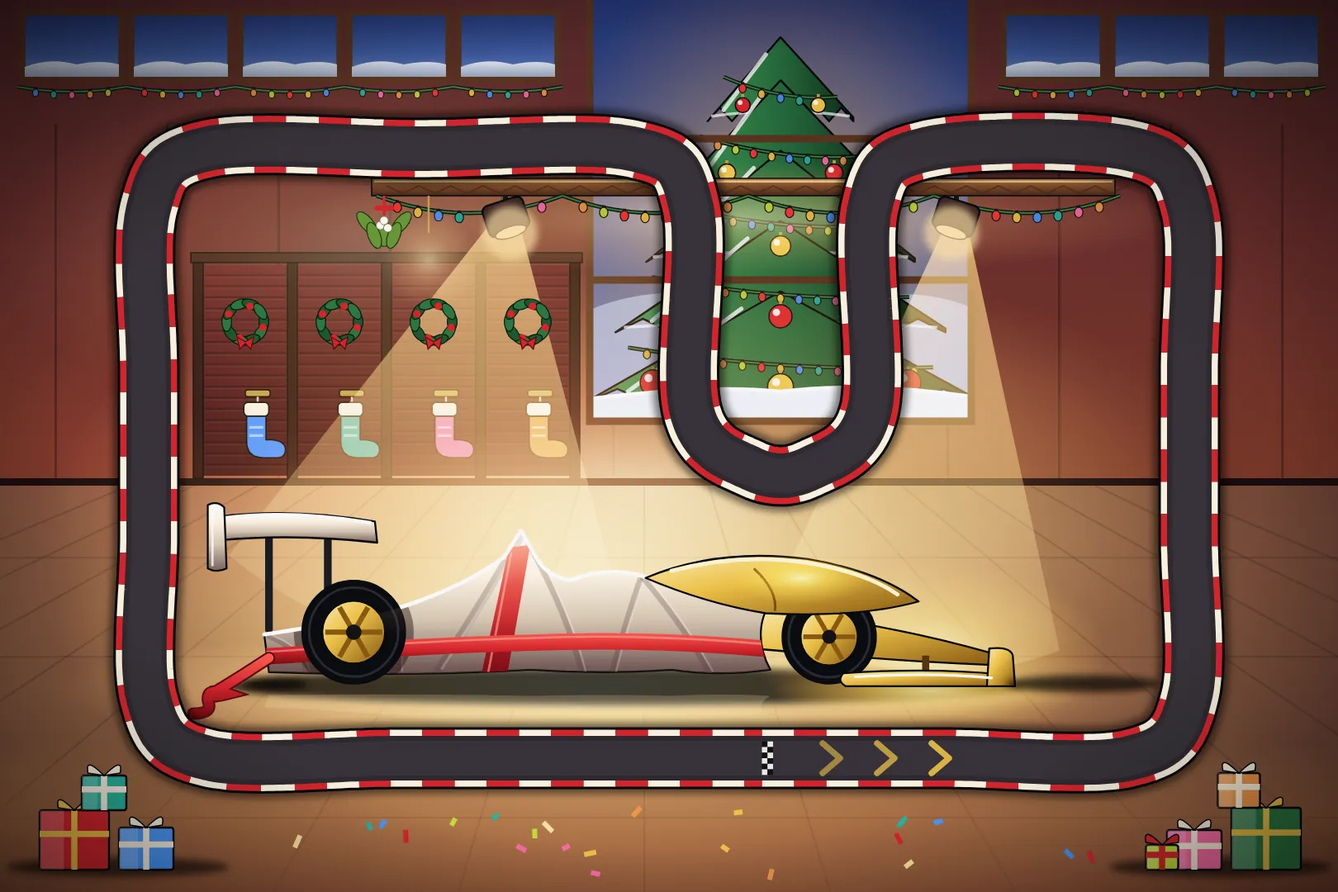
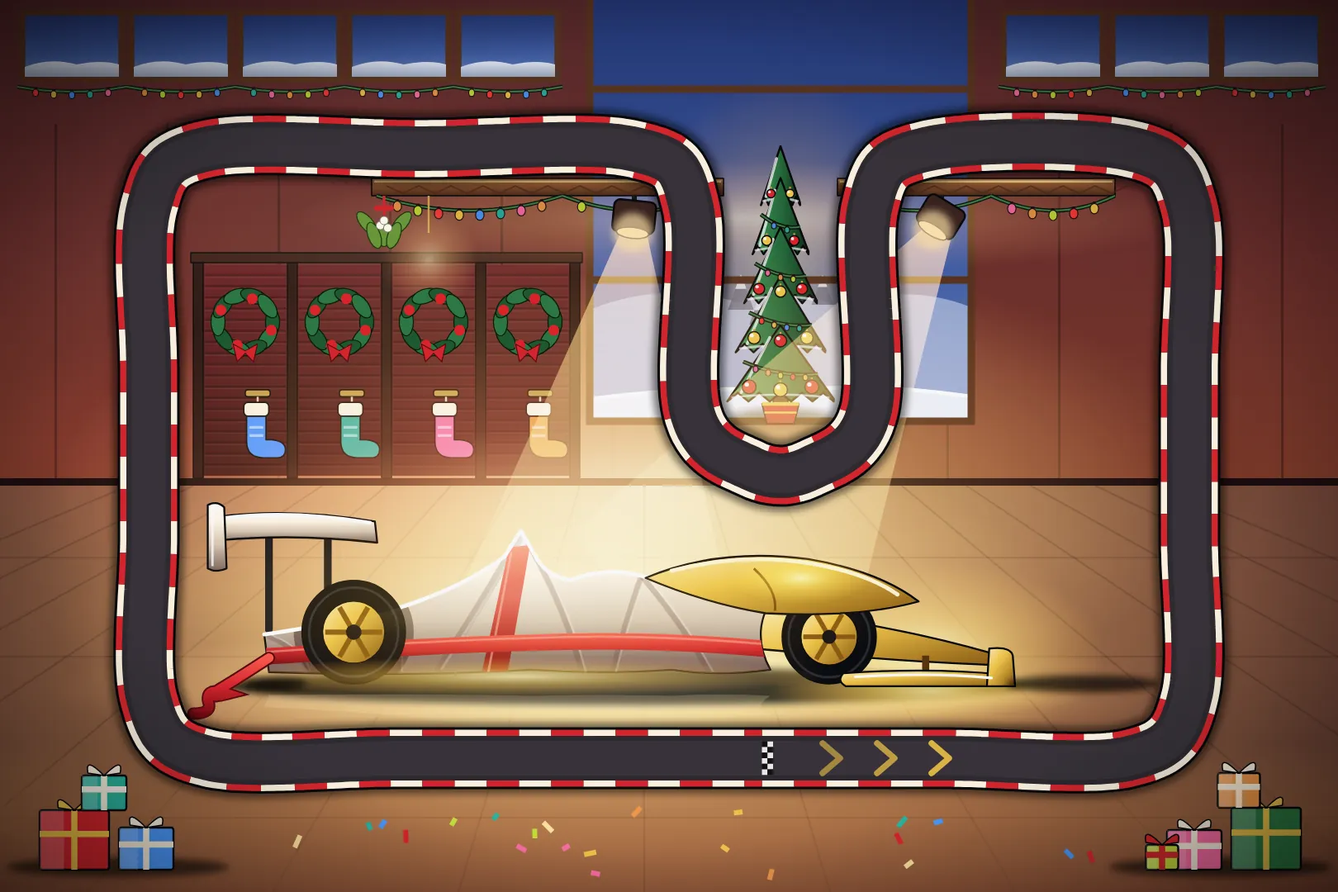
v16.79 : Atelier du Père Noël retouché (sapin entier, lumière sur la voiture, portraits dans les couronnes)
Claude-Session: https://claude.ai/code/session_01PCnbeGjQAm74wxXQuoCJhH

Changed region(s): [[0.4321, 0.0, 0.8333, 0.7028], [0.1543, 0.2139, 0.5247, 0.55], [0.216, 0.6111, 0.5864, 0.7944]]

diff --git a/piste.js b/piste.js
@@ -4918,7 +4918,9 @@
     // guirlande : les ampoules en 3 groupes de couleurs qui clignotent à tour de rôle (les ampoules éteintes restent colorées dans le fond)
     const GUIR = [[], [], []], AMP = ["#FF3B3B", "#F2C64A", "#4C9AFF", "#2BB6A3", "#FF6FA8", "#F2994A", "#C6E03A"];
     let nAmp = 0;
-    const ampoule = (x, y, R) => { if (Math.abs(y - 166) < 22 && (Math.abs(x - 408) < 28 || Math.abs(x - 772) < 28)) return; const c = AMP[nAmp % AMP.length], g = nAmp % 3; nAmp++;
+    const SPX = [512, 760], SX = 630, SY0 = 118, SB = 322;
+    let surSapin = false;
+    const ampoule = (x, y, R) => { if (Math.abs(y - 166) < 22 && SPX.some(v => Math.abs(x - v) < 28)) return; if (!surSapin && y > SY0 - 20 && y < SB + 24 && Math.abs(x - SX) < 52) return; const c = AMP[nAmp % AMP.length], g = nAmp % 3; nAmp++;
       s.push(`<path d="M${f(x)} ${f(y - R - 1.5)}v2" stroke="#1A1012" stroke-width="2.4"/><ellipse cx="${f(x)}" cy="${f(y)}" rx="${f(R * .8)}" ry="${f(R)}" fill="${mixHex(c, "#000000", .08)}" stroke="#1A1012" stroke-width=".8"/>`);
       if (K.dT(x, y) > 31) GUIR[g].push(`<circle cx="${f(x)}" cy="${f(y)}" r="${f(R * 1.55)}" fill="${c}" opacity=".3"/><ellipse cx="${f(x)}" cy="${f(y)}" rx="${f(R * .8)}" ry="${f(R)}" fill="${mixHex(c, "#FFFFFF", .3)}"/><circle cx="${f(x - R * .25)}" cy="${f(y - R * .35)}" r="${f(R * .3)}" fill="#FFFFFF"/>`); };
     const feston = (x0, y0, x1, y1, creux, pas, R) => { const mx = (x0 + x1) / 2, my = (y0 + y1) / 2 + creux;
@@ -4939,36 +4941,29 @@
 
     // =============== 2. les hautes fenêtres sur le soir de neige (bleu soir, seule touche froide), avec congères et guirlande
     //  (remontées au-dessus de la ligne droite du haut pour que la piste ne mange plus les appuis ni les ampoules)
-    const VX0 = 476, VX1 = 784, VY1 = 340, SX = (VX0 + VX1) / 2, FEN = [], FY = 10, FH = 54;
+    const VX0 = 476, VX1 = 784, VY1 = 340, FEN = [], FY = 10, FH = 54;
     for (let x = 18; x < W - 40; x += 88) { if (x + 80 > VX0 - 10 && x < VX1 + 10) continue; FEN.push(x);
       s.push(`<rect x="${x}" y="${FY}" width="80" height="${FH}" fill="url(#g6-ciel)" stroke="#5A3420" stroke-width="5"/><path d="M${x + 2} ${FY + FH - 10}Q${x + 22} ${FY + FH - 18} ${x + 44} ${FY + FH - 12}Q${x + 64} ${FY + FH - 16} ${x + 78} ${FY + FH - 12}V${FY + FH - 2}H${x + 2}Z" fill="url(#g6-neige)"/>`); }
     s.push(`<rect x="${VX0}" y="0" width="${VX1 - VX0}" height="${VY1}" fill="url(#g6-ciel)"/>`);
-    // DEHORS, derrière la grande verrière : le grand sapin du village, tout illuminé ; il est plus large que l'épingle, ses branches débordent des deux côtés
+    // DEHORS, derrière la grande verrière : la nuit de neige, les collines et quelques sapins du village au loin (le grand sapin est DEDANS, dans l'alcôve de l'épingle)
     s.push(`<clipPath id="g6-cver"><rect x="${VX0}" y="0" width="${VX1 - VX0}" height="${VY1}"/></clipPath><g clip-path="url(#g6-cver)">`);
     s.push(`<path d="M${VX0} 250Q${VX0 + 60} 226 ${VX0 + 120} 244Q${SX} 230 ${VX1 - 110} 246Q${VX1 - 50} 228 ${VX1} 248V${VY1}H${VX0}Z" fill="#B8C6E4" opacity=".7"/>`);
-    s.push(`<ellipse cx="${SX}" cy="190" rx="200" ry="230" fill="url(#g6-chaud)" opacity=".75" style="mix-blend-mode:screen"/>`);
-    const SY0 = 30, SB = 322, ET = 5, etages = [];
-    for (let e = 0; e < ET; e++) { const t0 = e / ET, t1 = (e + 1) / ET; etages.push([SY0 + 8 + (SB - SY0 - 8) * t0 - (e ? 22 : 0), 34 + 124 * t1, SY0 + 8 + (SB - SY0 - 8) * t1]); }
-    s.push(`<rect x="${SX - 12}" y="${SB - 14}" width="24" height="20" fill="#5A3420" ${IN1}/>`);
-    etages.forEach(([y0, demi, y1]) => { const pts = []; for (let q = 0; q <= 12; q++) { const u = -demi + q * demi / 6; pts.push(`${f(SX + u)} ${f(y1 + (q % 2 ? -8 : 3))}`); }
-      s.push(`<path d="M${SX} ${f(y0 - 8)}L${f(SX + demi)} ${f(y1)}L${pts.reverse().join("L")}Z" fill="url(#g6-sapin)" ${INK}/><path d="M${f(SX - demi * .2)} ${f(y0 + 6)}L${f(SX - demi * .78)} ${f(y1 - 6)}" stroke="#FFFFFF" stroke-opacity=".8" stroke-width="3.4" stroke-linecap="round"/><path d="M${f(SX - demi * .95)} ${f(y1 - 1)}Q${SX} ${f(y1 - 9)} ${f(SX + demi * .95)} ${f(y1 - 1)}" stroke="#FFFFFF" stroke-opacity=".7" stroke-width="2.4" fill="none"/>`); });
-    etages.forEach(([y0, demi, y1], e) => { const ya = y0 + (y1 - y0) * .6, w = demi * .78; feston(SX - w, ya - 10, SX + w, ya + 6, 6, 15, 3.6); });
-    // les boules nettes, rouges et dorées, plus grosses sur les branches qui débordent de l'épingle
-    etages.forEach(([y0, demi, y1], e) => { const ya = y0 + (y1 - y0) * .9, w = demi * .74, n = e < 2 ? 2 : 3; for (let q = 0; q < n; q++) { const t = n === 2 ? (q ? .85 : .15) : [.06, .5, .94][q], x = SX - w + 2 * w * t, c = (q + e) % 2 ? "#F2C64A" : "#E0242C", R = 6 + e * 1.1, y = ya - 6 + Math.sin(t * PI) * 4;
-      s.push(`<path d="M${f(x)} ${f(y - R - 3)}v3" stroke="#C9A24A" stroke-width="2.4"/><circle cx="${f(x)}" cy="${f(y)}" r="${f(R)}" fill="${c}" ${IN1}/><circle cx="${f(x - R * .35)}" cy="${f(y - R * .35)}" r="${f(R * .32)}" fill="#FFFFFF" opacity=".9"/>`); } });
+    [[598, 250, 13], [664, 246, 11], [612, 262, 9]].forEach(([x, y, h]) => s.push(`<path d="M${x} ${y - h * 2.2}L${x + h * .8} ${y}H${x - h * .8}Z" fill="#2A3E6A" opacity=".8"/><path d="M${x} ${y - h * 2.2}L${x + h * .35} ${y - h * 1.3}H${x - h * .35}Z" fill="#E8EEF8" opacity=".8"/>`));
+    s.push(`<ellipse cx="${SX}" cy="230" rx="120" ry="170" fill="url(#g6-chaud)" opacity=".55" style="mix-blend-mode:screen"/>`);
     s.push(`<path d="M${VX0} 322Q${SX - 60} 310 ${SX} 316Q${SX + 70} 308 ${VX1} 320V${VY1}H${VX0}Z" fill="#EEF3FB"/><path d="M${VX0} 322Q${SX - 60} 310 ${SX} 316Q${SX + 70} 308 ${VX1} 320" stroke="#FFFFFF" stroke-width="3" fill="none"/></g>`);
     // la verrière : cadre de bois chaud et deux traverses fines (on voit le sapin à travers la vitre)
-    const CADRES = `M${VX0} 0V${VY1}H${VX1}V0M${VX0} 112H${VX1}M${VX0} 226H${VX1}`;
+    const CADRES = `M${VX0} 0V${VY1}H${VX1}V0M${VX0} 72H${VX1}M${VX0} 226H${VX1}`;
     s.push(`<path d="${CADRES}" fill="none" stroke="#5A3420" stroke-width="6"/>`);
     // la neige tombe derrière toutes les vitres (deux couches, la plus proche en gros flocons), les montants repassent devant
-    { a.push(`<clipPath id="g6-cv"><rect x="${VX0}" y="0" width="${VX1 - VX0}" height="${VY1}"/>${FEN.map(x => `<rect x="${x}" y="${FY}" width="80" height="${FH}"/>`).join("")}</clipPath>`);
+    { const TROU = `M${SX} ${SY0 - 26}L${SX + 26} ${SY0 + 6}L${SX + 50} ${SB + 2}L${SX + 18} ${SB + 24}H${SX - 18}L${SX - 50} ${SB + 2}L${SX - 26} ${SY0 + 6}Z`;
+      a.push(`<clipPath id="g6-cv"><path clip-rule="evenodd" d="M${VX0} 0H${VX1}V${VY1}H${VX0}Z${FEN.map(x => `M${x} ${FY}h80v${FH}h-80Z`).join("")}${TROU}"/></clipPath><clipPath id="g6-hors"><path clip-rule="evenodd" d="M0 0H${W}V${H}H0Z${TROU}"/></clipPath>`);
       [[13, 0], [8, 1]].forEach(([du, q]) => { let fl = "";
         const nV = q ? 40 : 64, nF = q ? 50 : 90, rb = q ? 2.4 : 1.2, rv = q ? 1.8 : 1.4;
         for (let k = 0; k < nV; k++) fl += `<circle cx="${f(VX0 + r() * (VX1 - VX0))}" cy="${f(r() * VY1)}" r="${f(rb + r() * rv)}" fill="#F4F8FF" opacity="${(.6 + r() * .4).toFixed(2)}"/>`;
         for (let k = 0; k < nF; k++) fl += `<circle cx="${f(FEN[k % FEN.length] + r() * 80)}" cy="${f(r() * VY1)}" r="${f(rb * .85 + r() * rv)}" fill="#F4F8FF" opacity="${(.6 + r() * .4).toFixed(2)}"/>`;
         if (q) for (let k = 0; k < 8; k++) { const x = r() < .5 ? VX0 + 8 + r() * 46 : VX1 - 54 + r() * 46, y = r() * VY1; fl += `<circle cx="${f(x)}" cy="${f(y)}" r="8" fill="#FFFFFF" opacity=".22"/><circle cx="${f(x)}" cy="${f(y)}" r="${f(3.5 + r() * 1.5)}" fill="#FFFFFF"/>`; }
         a.push(`<g clip-path="url(#g6-cv)"><g>${an(`<animateTransform attributeName="transform" type="translate" values="0 -${VY1};${q ? -10 : 8} 0" dur="${du}s" repeatCount="indefinite"/>`)}<g id="g6-fl${q}">${fl}</g>${K.anime ? `<use href="#g6-fl${q}" y="${VY1}"/>` : ""}</g></g>`); });
-      a.push(`<path d="${CADRES}${FEN.map(x => `M${x} ${FY}h80v${FH}h-80zM${x + 40} ${FY}V${FY + FH}M${x} ${FY + FH / 2}H${x + 80}`).join("")}" fill="none" stroke="#5A3420" stroke-width="3.6"/><path d="M${VX0 + 3} 0V${VY1}M${VX1 - 3} 0V${VY1}" stroke="#F2C64A" stroke-opacity=".45" stroke-width="1.4"/>`);
+      a.push(`<g clip-path="url(#g6-hors)"><path d="${CADRES}${FEN.map(x => `M${x} ${FY}h80v${FH}h-80zM${x + 40} ${FY}V${FY + FH}M${x} ${FY + FH / 2}H${x + 80}`).join("")}" fill="none" stroke="#5A3420" stroke-width="3.6"/><path d="M${VX0 + 3} 0V${VY1}M${VX1 - 3} 0V${VY1}" stroke="#F2C64A" stroke-opacity=".45" stroke-width="1.4"/></g>`);
       FEN.forEach(x => a.push(`<path d="M${x - 3} ${FY + FH + 2}Q${x + 40} ${FY + FH - 4} ${x + 83} ${FY + FH + 2}" stroke="#F4F8FC" stroke-width="5" stroke-linecap="round" fill="none"/>`)); }
     // guirlande en festons sous les fenêtres (au-dessus de la piste du haut)
     for (let k = 0; k < FEN.length; k++) { const x = FEN[k]; feston(x - 4, FY + FH + 6, x + 84, FY + FH + 6, 4, 14, 3); }
@@ -4981,44 +4976,58 @@
     CJ.forEach((c, k) => { const x0 = BX0 + k * BW, xm = x0 + BW / 2;
       s.push(`<rect x="${x0 + 4}" y="${PY0}" width="${BW - 8}" height="${HZ - PY0 - 8}" fill="url(#g6-porte)"/>`);
       for (let y = PY0 + 8; y < HZ - 10; y += 9) s.push(`<path d="M${x0 + 5} ${y}H${x0 + BW - 5}" stroke="#000" stroke-opacity=".28" stroke-width="1.6"/><path d="M${x0 + 5} ${y + 1.6}H${x0 + BW - 5}" stroke="#FFD8A0" stroke-opacity=".08" stroke-width="1"/>`);
-      s.push(houx(xm, PY0 + 46, 15));
+      s.push(houx(xm, PY0 + 46, 22));
       // la chaussette pend à la poignée, à la couleur du pilote, revers crème
       const hx = xm + 10, hy = HZ - 74;
       s.push(`<g transform="translate(${hx} ${hy}) scale(1.12) translate(${-hx} ${-hy})"><rect x="${hx - 9}" y="${hy - 3}" width="18" height="5" rx="2" fill="#C9A24A" ${IN1}/><path d="M${hx} ${hy + 2}V${hy + 8}" stroke="#E8D8B0" stroke-width="1.5"/>
         <path d="M${hx - 8} ${hy + 14}V${hy + 34}Q${hx - 8} ${hy + 46} ${hx + 4} ${hy + 46}H${hx + 14}Q${hx + 20} ${hy + 46} ${hx + 20} ${hy + 40}Q${hx + 20} ${hy + 34} ${hx + 10} ${hy + 33}H${hx + 6}V${hy + 14}Z" fill="${c}" ${IN1}/>
         <rect x="${hx - 10}" y="${hy + 6}" width="18" height="10" rx="3" fill="#FFF6E4" ${IN1}/><path d="M${hx - 6} ${hy + 24}H${hx + 4}M${hx - 6} ${hy + 30}H${hx + 4}" stroke="#FFFFFF" stroke-opacity=".55" stroke-width="2"/></g>`);
-      PORTR.push({ k, x: +xm.toFixed(1), y: +(PY0 - 34).toFixed(1), r: 18 });
+      PORTR.push({ k, x: +xm.toFixed(1), y: +(PY0 + 46).toFixed(1), r: 18 });
     });
     for (let k = 0; k <= 4; k++) s.push(`<rect x="${BX0 + k * BW - 4}" y="${PY0 - 6}" width="8" height="${HZ - PY0}" fill="#2A1614" ${IN1}/>`);
     s.push(`<rect x="${BX0 - 6}" y="${PY0 - 10}" width="${4 * BW + 12}" height="8" fill="#3A201C" ${IN1}/>`);
 
-    s.push(`<ellipse cx="300" cy="200" rx="300" ry="150" fill="url(#g6-chaud)" opacity=".32" style="mix-blend-mode:screen"/>`);
+    s.push(`<ellipse cx="300" cy="200" rx="300" ry="150" fill="url(#g6-chaud)" opacity=".1" style="mix-blend-mode:screen"/>`);
     // =============== 4. la poutre de bois chaud (reflets dorés des guirlandes), ses festons, l'étoile du sapin et les suspensions de papier
     const MX = 466, MY = 552, S = .95;
     s.push(`<ellipse cx="600" cy="176" rx="360" ry="46" fill="url(#g6-chaud)" opacity=".55" style="mix-blend-mode:screen"/>`);
-    s.push(`<rect x="300" y="144" width="600" height="14" fill="url(#g6-poutre)" ${IN1}/><path d="M302 146.5H898" stroke="#FFE2A0" stroke-opacity=".8" stroke-width="1.6"/>`);
-    for (let x = 312; x < 900; x += 26) s.push(`<path d="M${x} 150l13 6l13 -6" stroke="#4A2614" stroke-opacity=".7" stroke-width="1.2" fill="none"/>`);
+    [[300, 584], [676, 900]].forEach(([x0, x1]) => s.push(`<rect x="${x0}" y="144" width="${x1 - x0}" height="14" fill="url(#g6-poutre)" ${IN1}/><path d="M${x0 + 2} 146.5H${x1 - 2}" stroke="#FFE2A0" stroke-opacity=".8" stroke-width="1.6"/>`));
+    for (let x = 312; x < 900; x += 26) if (x + 26 < 584 || x > 676) s.push(`<path d="M${x} 150l13 6l13 -6" stroke="#4A2614" stroke-opacity=".7" stroke-width="1.2" fill="none"/>`);
     // l'étoile au sommet : grand halo, rayons qui scintillent, étoile qui pulse (couche animée)
-    a.push(`<circle cx="${SX}" cy="${SY0 - 4}" r="54" fill="url(#g6-etoile)" opacity="${K.anime ? .6 : .9}">${an(`<animate attributeName="opacity" values=".5;1;.5" dur="2.4s" repeatCount="indefinite"/>`)}</circle>`);
-    a.push(`<g transform="translate(${SX} ${SY0 - 4})"><g opacity="${O0(.85)}">${an(`<animate attributeName="opacity" values=".2;.95;.2" dur="1.6s" repeatCount="indefinite"/>`)}${Array.from({ length: 8 }, (_, q) => { const t = q / 8 * TAU, l = q % 2 ? 26 : 40; return `<path d="M${f(Math.cos(t) * 14)} ${f(Math.sin(t) * 14)}L${f(Math.cos(t) * l)} ${f(Math.sin(t) * l)}" stroke="#FFF6C8" stroke-width="${q % 2 ? 2 : 3}" stroke-linecap="round"/>`; }).join("")}</g><g>${an(`<animateTransform attributeName="transform" type="scale" values="1;1.14;1" dur="2.4s" repeatCount="indefinite"/>`)}<path d="M0 -19L5.6 -5.8L20 -5.8L8.3 3.3L12.8 18.2L0 9.3L-12.8 18.2L-8.3 3.3L-20 -5.8L-5.6 -5.8Z" fill="#FFD84A" ${INK}/><path d="M0 -11L3 -3.2L-3 -3.2Z" fill="#FFF8D8"/></g></g>`);
+    a.push(`<circle cx="${SX}" cy="${SY0 - 4}" r="40" fill="url(#g6-etoile)" opacity="${K.anime ? .6 : .9}">${an(`<animate attributeName="opacity" values=".5;1;.5" dur="2.4s" repeatCount="indefinite"/>`)}</circle>`);
+    a.push(`<g transform="translate(${SX} ${SY0 - 4})"><g opacity="${O0(.85)}">${an(`<animate attributeName="opacity" values=".2;.95;.2" dur="1.6s" repeatCount="indefinite"/>`)}${Array.from({ length: 8 }, (_, q) => { const t = q / 8 * TAU, l = q % 2 ? 22 : 32; return `<path d="M${f(Math.cos(t) * 14)} ${f(Math.sin(t) * 14)}L${f(Math.cos(t) * l)} ${f(Math.sin(t) * l)}" stroke="#FFF6C8" stroke-width="${q % 2 ? 2 : 3}" stroke-linecap="round"/>`; }).join("")}</g><g transform="scale(.8)"><g>${an(`<animateTransform attributeName="transform" type="scale" values="1;1.14;1" dur="2.4s" repeatCount="indefinite"/>`)}<path d="M0 -19L5.6 -5.8L20 -5.8L8.3 3.3L12.8 18.2L0 9.3L-12.8 18.2L-8.3 3.3L-20 -5.8L-5.6 -5.8Z" fill="#FFD84A" ${INK}/><path d="M0 -11L3 -3.2L-3 -3.2Z" fill="#FFF8D8"/></g></g></g>`);
     // festons sous la poutre (de part et d'autre du sapin)
-    [304, 454, 604, 754].forEach(x => feston(x, 158, x + 150, 158, 14, 16, 4.2));
+    [[304, 454], [454, 578], [682, 800], [800, 900]].forEach(([x0, x1]) => feston(x0, 158, x1, 158, 12, 16, 4.2));
     // une grande étoile de papier rouge et or qui tourne doucement, et un brin de gui au bout de la poutre
     { const ex = 346, ey = 210, pts = Array.from({ length: 16 }, (_, q) => { const t = q / 16 * TAU - PI / 2, l = q % 2 ? 9 : 22; return `${f(Math.cos(t) * l)} ${f(Math.sin(t) * l)}`; }).join("L");
       s.push(`<path d="M${ex} 158V${ey - 22}" stroke="#C9A24A" stroke-width="1.6"/><circle cx="${ex}" cy="${ey}" r="40" fill="url(#g6-chaud)" opacity=".6" style="mix-blend-mode:screen"/>`);
       a.push(`<g transform="translate(${ex} ${ey})"><g>${an(`<animateTransform attributeName="transform" type="rotate" values="-12;12;-12" dur="5s" repeatCount="indefinite"/>`)}<path d="M${pts}Z" fill="#D8262E" ${INK}/><path d="M${pts}Z" fill="none" stroke="#F2C64A" stroke-width="2" transform="scale(.66)"/><circle r="5" fill="#F2C64A" ${IN1}/></g></g>`); }
     { const gx = 310, gy = 158; s.push(`<path d="M${gx} ${gy}V${gy + 16}" stroke="#D8262E" stroke-width="2.4"/><path d="M${gx - 6} ${gy + 10}h12" stroke="#D8262E" stroke-width="4" stroke-linecap="round"/>${[[-14, 22, -40], [0, 30, 0], [14, 22, 40], [-8, 32, -20], [8, 32, 20]].map(([dx, dy, rt]) => `<ellipse cx="${gx + dx}" cy="${gy + dy}" rx="5" ry="11" fill="#6A9A3A" stroke="#1E3A12" stroke-width=".8" transform="rotate(${rt} ${gx + dx} ${gy + dy})"/>`).join("")}${[[-3, 24], [3, 26], [0, 20]].map(([dx, dy]) => `<circle cx="${gx + dx}" cy="${gy + dy}" r="3.4" fill="#FFFDF0" stroke="#7A7A6A" stroke-width=".6"/>`).join("")}`); }
+    // =============== 4 bis. le grand sapin, dans l'alcôve que dessine l'épingle (entier : ni la piste ni les montants ne le coupent)
+    { const ET = 5, etages = [];
+      for (let e = 0; e < ET; e++) { const t0 = e / ET, t1 = (e + 1) / ET; etages.push([SY0 + 6 + (SB - SY0 - 6) * t0 - (e ? 14 : 0), 9 + 34 * t1, SY0 + 6 + (SB - SY0 - 6) * t1]); }
+      s.push(`<ellipse cx="${SX}" cy="${SB + 14}" rx="40" ry="6" fill="#000" opacity=".5" filter="url(#g6-flou)"/><rect x="${SX - 6}" y="${SB - 6}" width="12" height="12" fill="#5A3420" ${IN1}/>`);
+      s.push(`<path d="M${SX - 15} ${SB + 4}H${SX + 15}L${SX + 11} ${SB + 20}H${SX - 11}Z" fill="#D8262E" ${IN1}/><path d="M${SX - 15} ${SB + 4}H${SX + 15}" stroke="#F2C64A" stroke-width="3"/><path d="M${SX - 13} ${SB + 11}H${SX + 13}" stroke="#F2C64A" stroke-width="1.6"/>`);
+      etages.forEach(([y0, demi, y1]) => { const pts = []; for (let q = 0; q <= 10; q++) { const u = -demi + q * demi / 5; pts.push(`${f(SX + u)} ${f(y1 + (q % 2 ? -5 : 2))}`); }
+        s.push(`<path d="M${SX} ${f(y0 - 6)}L${f(SX + demi)} ${f(y1)}L${pts.reverse().join("L")}Z" fill="url(#g6-sapin)" ${INK}/><path d="M${f(SX - demi * .2)} ${f(y0 + 4)}L${f(SX - demi * .74)} ${f(y1 - 5)}" stroke="#FFFFFF" stroke-opacity=".75" stroke-width="2.4" stroke-linecap="round"/><path d="M${f(SX - demi * .92)} ${f(y1 - 1)}Q${SX} ${f(y1 - 6)} ${f(SX + demi * .92)} ${f(y1 - 1)}" stroke="#FFFFFF" stroke-opacity=".65" stroke-width="1.8" fill="none"/>`); });
+      surSapin = true;
+      etages.forEach(([y0, demi, y1], e) => { if (!e) return; const ya = y0 + (y1 - y0) * .55, w = demi * .7; feston(SX - w, ya - 6, SX + w, ya + 4, 4, 10, 2.5); });
+      surSapin = false;
+      etages.forEach(([y0, demi, y1], e) => { const ya = y0 + (y1 - y0) * .88, w = demi * .7, n = e < 2 ? 2 : 3; for (let q = 0; q < n; q++) { const t = n === 2 ? (q ? .85 : .15) : [.08, .5, .92][q], x = SX - w + 2 * w * t, c = (q + e) % 2 ? "#F2C64A" : "#E0242C", R = 3.4 + e * .55, y = ya - 4 + Math.sin(t * PI) * 3;
+        s.push(`<path d="M${f(x)} ${f(y - R - 2)}v2" stroke="#C9A24A" stroke-width="1.6"/><circle cx="${f(x)}" cy="${f(y)}" r="${f(R)}" fill="${c}" ${IN1}/><circle cx="${f(x - R * .35)}" cy="${f(y - R * .35)}" r="${f(R * .32)}" fill="#FFFFFF" opacity=".9"/>`); } }); }
     // les guirlandes clignotent par groupes de couleurs, décalés (petits points nets ; dessinées AVANT les personnages pour ne jamais leur tomber dessus)
     GUIR.forEach((g, q) => a.push(`<g opacity="${O0(q === 1 ? .4 : 1)}">${an(`<animate attributeName="opacity" values="1;.2;1" dur="2.1s" begin="${(q * .7).toFixed(1)}s" repeatCount="indefinite"/>`)}${g.join("")}</g>`));
 
     // =============== 5. LE héros : la monoplace sous sa bâche-cadeau, sous deux projecteurs ambrés
-    const SPOTS = [[408, 1, MX - 120, MY - 70, 330], [772, -1, MX + 270, MY - 40, 240]];
+    const SPOTS = [[SPX[0], 1, MX + 14, MY - 50, 230], [SPX[1], -1, MX + 104, MY - 58, 250]].map(([x, sd, x1, y1, w]) => [x, sd, x1, y1, w, -Math.atan2(x1 - x, y1 - 184) * 57.3]);
     SPOTS.forEach(([x, sd, x1, y1, w]) => cone(x, 184, x1, y1, w, "#FFC870", .85));
+    // là où les deux faisceaux se croisent : le sol s'allume d'or sous la voiture
+    flaque(MX + 60, MY - 4, 300, 46, 1, "lueurOr");
     s.push(`<ellipse cx="${MX + 30}" cy="${MY - 110}" rx="470" ry="250" fill="url(#g6-chaud)" opacity=".6" style="mix-blend-mode:screen"/><ellipse cx="${MX - 50}" cy="${MY - 130}" rx="230" ry="150" fill="url(#g6-rougeM)" style="mix-blend-mode:screen"/>`);
     flaque(MX - 10, MY - 50, 410, 155, 1);
     flaque(MX + 20, MY + 4, 450, 52, 1);
-    SPOTS.forEach(([x, sd]) => s.push(`<path d="M${x} 158V166" stroke="#16141A" stroke-width="4"/><g transform="translate(${x} 174) rotate(${sd * -18})"><rect x="-17" y="-12" width="34" height="26" rx="5" fill="#3A2420" ${INK}/><ellipse cx="0" cy="14" rx="13" ry="4.5" fill="#FFF0C8" ${IN1}/></g><circle cx="${x + sd * 4}" cy="188" r="22" fill="#FFE2A8" opacity=".7" filter="url(#g6-flou)"/>`));
-    CJ.forEach((c, k) => s.push(houx(BX0 + k * BW + BW / 2, PY0 + 46, 15)));
+    SPOTS.forEach(([x, sd, x1, y1, w, ang]) => s.push(`<path d="M${x} 158V166" stroke="#16141A" stroke-width="4"/><g transform="translate(${x} 174) rotate(${f(ang)})"><rect x="-17" y="-12" width="34" height="26" rx="5" fill="#3A2420" ${INK}/><ellipse cx="0" cy="14" rx="13" ry="4.5" fill="#FFF0C8" ${IN1}/></g><circle cx="${f(x - Math.sin(ang / 57.3) * 14)}" cy="${f(174 + Math.cos(ang / 57.3) * 14)}" r="16" fill="#FFE2A8" opacity=".7" filter="url(#g6-flou)"/>`));
+    CJ.forEach((c, k) => s.push(houx(BX0 + k * BW + BW / 2, PY0 + 46, 22)));
     const RR = [-190, -44, 44], RV = [214, -40, 40];
     const BA = "M-262 -10L-266 -42Q-210 -50 -160 -62Q-100 -80 -62 -108L-48 -130L-34 -106Q-26 -92 -6 -88Q24 -100 54 -92Q84 -82 112 -72L160 -62Q150 -38 164 -12Q120 -6 80 -12Q20 -8 -40 -12Q-140 -6 -262 -10Z";
     const AIL = "M-306 -142Q-244 -150 -172 -138L-170 -120Q-240 -128 -304 -122Z";
@@ -5053,6 +5062,8 @@
       ${pneu(RV, "url(#g6-or)", "#8A5A12")}${AV}</g>`);
     s.push(`${G(MX, MY, S)}<path d="${BA}" fill="url(#g6-lumB)" style="mix-blend-mode:screen"/>
       <path d="M58 -90Q120 -116 196 -106Q256 -96 290 -70Q240 -56 160 -60Q110 -68 58 -90Z" fill="url(#g6-or)" ${INK}/><path d="M80 -96Q140 -112 200 -102Q246 -94 272 -76" stroke="#FFF8D8" stroke-width="3.4" fill="none" stroke-linecap="round"/><path d="M150 -98Q170 -80 168 -62" stroke="#7A4E12" stroke-width="2" fill="none"/><ellipse cx="190" cy="-90" rx="60" ry="22" fill="url(#g6-lueurOr)" style="mix-blend-mode:screen"/></g>`);
+    s.push(`<ellipse cx="${MX - 50}" cy="${MY - 6}" rx="250" ry="16" fill="url(#g6-lueurOr)" opacity=".9" style="mix-blend-mode:screen"/><ellipse cx="${MX - 40}" cy="${MY - 70}" rx="300" ry="95" fill="url(#g6-lueurOr)" opacity=".35" style="mix-blend-mode:screen"/>`);
+    a.push(`<ellipse cx="${MX - 40}" cy="${MY - 2}" rx="230" ry="12" fill="url(#g6-lueurOr)" opacity="${O0(.7)}" style="mix-blend-mode:screen">${an(`<animate attributeName="opacity" values=".35;.9;.35" dur="2.8s" repeatCount="indefinite"/>`)}</ellipse>`);
     rad("lumB", [[0, "#FFF0D0", .7], [.5, "#FFD090", .2], [1, "#FFD090", 0]], 'cx="45%" cy="0%" r="75%"');
     // LE grand nœud rouge bordé d'or, posé sur l'arceau ; ses deux pans flottent
     const NX = MX - 49 * S, NY = MY - 134 * S;
@@ -5147,7 +5158,7 @@
     s.push(`<rect width="${W}" height="${H}" fill="url(#g6-nuit)"/>`);
     // la poussière dorée qui danse dans les deux faisceaux
     for (let q = 0; q < 8; q++) { const x = MX - 200 + r() * 400, y = 200 + r() * 260, d = (3 + r() * 3).toFixed(1); a.push(`<circle cx="${f(x)}" cy="${f(y)}" r="${f(1 + r() * 1)}" fill="#FFF3C8" opacity="${O0(.6)}">${an(`<animate attributeName="opacity" values="0;.8;0" dur="${d}s" begin="${(r() * 3).toFixed(1)}s" repeatCount="indefinite"/><animateTransform attributeName="transform" type="translate" values="0 0;${f((r() - .5) * 16)} -14" dur="${d}s" repeatCount="indefinite"/>`)}</circle>`); }
-    const RES = K.fin(`<rect width="${W}" height="${H}" fill="#3A1C1A"/>`, "#2A0A10", .03); RES.portraits = PORTR; RES.lieux = { bache: [MX, MY - 80], sapin: [SX, 200] }; return RES;
+    const RES = K.fin(`<rect width="${W}" height="${H}" fill="#3A1C1A"/>`, "#2A0A10", .03); RES.portraits = PORTR; RES.lieux = { bache: [MX, MY - 80], sapin: [SX, 230] }; return RES;
   }
 
   const PEINTS_NUIT = { pandora: peindrePandora, ratatouille: peindreRatatouille, arene: peindreArene2, etoiles: peindreEtoiles4, anneau: peindreAnneau4, chocolat: peindreChocolat4, terrier: peindreGouter, chateau: peindreChateau5, plateau: peindrePlateau, envers: peindreEnvers3, multivers: peindreMultivers, dunes: peindreDunes4, titans: peindreTitans4, odyssee: peindreOdyssee2 };   // v16.34 : 10 cartes refaites au niveau de l'Arène

diff --git a/img/cartes/cartes.js b/img/cartes/cartes.js
@@ -1,2 +1,2 @@
 /* GÉNÉRÉ par outils-tests/cuire-cartes.js : fonds peints cuits en WebP (clé → empreinte du dessin). */
-self.CARTES_CUITES = {"garage":"s3sfup","ratatouille":"1ap4yk1","chateau":"1vfm98i","terrier":"6ysafc","anneau":"tur7qp","pandora":"1r6d2xc","arene":"20x41r","etoiles":"wzvdjx","dunes":"g4t1q4","envers":"1nt25gr","multivers":"107jyrv","chocolat":"elj4no","titans":"xeyp8y","odyssee":"ywv8m","plateau":"1gvl1os"};
+self.CARTES_CUITES = {"garage":"ozc22v","ratatouille":"1ap4yk1","chateau":"1vfm98i","terrier":"6ysafc","anneau":"tur7qp","pandora":"1r6d2xc","arene":"20x41r","etoiles":"wzvdjx","dunes":"g4t1q4","envers":"1nt25gr","multivers":"107jyrv","chocolat":"elj4no","titans":"xeyp8y","odyssee":"ywv8m","plateau":"1gvl1os"};

diff --git a/version.js b/version.js
@@ -3,4 +3,4 @@
    À chaque mise en ligne : changer « app » et « date » ici, rien d'autre.
    Lu par index.html (affiché dans Réglages) et par sw.js (nom du cache hors connexion).
    ============================================================ */
-self.VERSUS_VERSION = { app: "16.78", date: "19 novembre 2026" };
+self.VERSUS_VERSION = { app: "16.79", date: "19 novembre 2026" };

diff --git a/CLAUDE.md b/CLAUDE.md
@@ -43,7 +43,7 @@
 - `moi.js` (onglet Moi : rappels, assurance vie, prêt, marchés, séance/semaine), `moteur.js` (calculs),
   `piste.js` (moteur 3D WebGL maison + carte 2D des circuits), `css/versus.css`.
 - **Version** : `version.js` (`app` + `date`) — seul endroit à changer à chaque mise en ligne (sert aussi au cache
-  hors connexion `sw.js`). Version actuelle : **16.78**.
+  hors connexion `sw.js`). Version actuelle : **16.79**.
 - Le calcul des points est partagé avec le serveur : `outils/extraire-podium.js` (dans app_scripts) régénère
   `versus/PodiumCommun.js` à partir de l'appli. Un changement de règle de score ⇒ remettre le serveur en ligne.
 
@@ -141,7 +141,7 @@ films, séries, la bande des 4 ; jamais de licence). Pas de copie « à l'identi
 - **Mon portrait ouvert aux joueurs le samedi 21/11 à 11 h** (`PORTRAIT_OUVRE`, `portraitDispo()` dans 3-podium.js ; avant : seulement en mode admin ACTIF, v16.71).
 - **Icônes maison (v16.29)** : 39 icônes dans `js/icones.js` (`ico`, `icoOu(cle, emoji)`), branchées sur les onglets du Podium, Règles, boutons de la Course et cartes, mais **coupées** (`ICONES_ACTIVES = false`) : Théo préfère garder les émojis pour l'instant. Course : **2 tours** (Théo : le 1er de 3 faisait doublon).
 - **Sons et vibrations (v16.43)** : `js/sons.js` (`SONS` : `course`, `arrivee`, `feuxBA`, `ev(clé)`, `klaxon`, `succes`, `vibrer`), Web Audio synthétisé, son ACTIVÉ par défaut depuis v16.74 (Théo) (`versus.son`), vibrations oui par défaut (`versus.vibre`) ; boutons `[data-son]`, `[data-son-choix]`, `[data-vibre-choix]`.
-- **Chasse au trésor (serveur V45, appli « v16.61 » sur la branche)** : un objet caché par circuit dans la Visite 3D (hélico), visible seulement de très près (v16.64 : zoom ≤ 0,2 et distance < 92, petit, un éclat bref ; Théo le veut « un peu difficile ») ; emplacements, types et énigmes UNIQUEMENT dans `app_scripts/versus/Tresors.js` (privé : ne jamais les recopier ici ni les dire à Théo, qui joue). Le serveur ne les donne qu'à partir du 1er du mois du circuit (saison 2027, admin compris) ; actions `tresors` / `tresorTrouve`, onglet masqué « Trésors » (Nom, Circuit, Date). Appli : `chargerTresors`/`poserTresorDOM`/`majTresor` (4-grandprix.js), `api.projeter/zoom/viser` (piste.js). 5 circuits pour l'instant (Garage = trésor du tour de chauffe en déc. 2026, Château, goûter, tranchée, Multivers) ; **V47** : `indice2` révélé le 11 du mois si personne n'a trouvé avant, `chercheurs` (qui + jour, ordre) affichés dans l'encadré de l'énigme (`chercheursTxt`) ; v16.67 : bouton `.gp-tresor-appel` en carte 2D → Visite 3D. **Conseil du 19/11 (trésors)** : famille « Chercheur » (vitrine d'objets bronze/argent/or + badge volé « Le Flair » à points 3/2/1, à partir du 2e trésor 2027, Garage hors badges) à faire DANS la refonte des récompenses ; décor 3D de Dune lancé (date butoir 20/12, sinon pas de trésor en janvier) ; ensuite boucher juillet→novembre (Ratatouille, Odyssée). **Efficience (Théo, 19/11 nuit)** : peu de chantiers à la fois, priorité au 1er décembre (Atelier du Père Noël 2D+3D, musique de la bande-annonce) ; écran « La Coupe » mis en pause (reprendre le workflow ecran-la-coupe avec resumeFromRunId wf_e6d7fbf7-b36 en décembre) ; pas de vidéo MP4 ni d'extras sonores pour l'instant. **3D (Théo, 19/11 nuit)** : les décors 3D actuels sont « une horreur, ni fait ni à faire », sauf le Château (Poudlard), « pas mal mais pas waouh » : ce n'est PAS le modèle, la cible est au-dessus (effet waouh) ; on fait UN circuit 3D après l'autre, en commençant par l'Atelier du Père Noël ; Dune et Ratatouille en pause, le reste après validation de Noël par Théo (lui montrer chaque 3D avant mise en ligne). Goûter, Étoiles, Multivers 3D à revoir aussi. **Décisions de Théo (19/11, soir)** : le circuit de chauffe s'appelle « L'Atelier du Père Noël » 🎅 (GPS.abudhabi, v16.72) ; fil rouge des trésors « La Coupe brisée » adopté par le Conseil (12 éclats, Coupe commune + vitrine perso, éclat « rendu par la piste » si pas trouvé, Finale = coffre dans le Multivers, badge « Gardien de la Coupe », aucun point) : contenu SECRET dans app_scripts/versus/Eclats.js (Théo joue : ne jamais le montrer), serveur branché (V49 : `coupe` dans l'action tresors = prologue + 12 éclats avenir/trouve/terne, `eclat` dans tresorTrouve ; éclat visible par tous dès la 1re trouvaille, décision de Théo), écran « La Coupe » de l'appli à faire avant janvier ; Garage 3D refait JOYEUX (Noël grandiose, Théo trouvait l'ancien « morbide ») : 2 concepts du Conseil, Théo choisit ; pas de gel au 25/11 (Théo : on peut modifier jusqu'au 1er décembre, les joueurs n'ont pas accès avant ; seul le teaser part le samedi 21/11) ; ordre des décors 3D = avis du game designer : Dune → Ratatouille → Odyssée → Envers → Titans → Pandora → Anneau → Chocolaterie ; **à terme un trésor sur TOUS les circuits** ; le Conseil doit surtout **varier les thèmes et les genres** d'un mois à l'autre (pas seulement boucher les trous du calendrier). **Conseil 19/11 (unanime)** : trésors = rappel dans l'appli seulement, PAS de mail aux joueurs (règle V26 maintenue) ; Le Flair à égalité de points reste au détenteur (vol si strictement supérieur ; afficher « à égalité : encore une 1re place pour le prendre »). ATTENTION : si decorGarage est remplacé (decorGarage2), revérifier la cachette du Garage dans Tresors.js : ajouter une ligne à `VS_TRESORS` quand un nouveau décor 3D sur mesure est prêt (cachette vérifiée par captures).
+- **Chasse au trésor (serveur V45, appli « v16.61 » sur la branche)** : un objet caché par circuit dans la Visite 3D (hélico), visible seulement de très près (v16.64 : zoom ≤ 0,2 et distance < 92, petit, un éclat bref ; Théo le veut « un peu difficile ») ; emplacements, types et énigmes UNIQUEMENT dans `app_scripts/versus/Tresors.js` (privé : ne jamais les recopier ici ni les dire à Théo, qui joue). Le serveur ne les donne qu'à partir du 1er du mois du circuit (saison 2027, admin compris) ; actions `tresors` / `tresorTrouve`, onglet masqué « Trésors » (Nom, Circuit, Date). Appli : `chargerTresors`/`poserTresorDOM`/`majTresor` (4-grandprix.js), `api.projeter/zoom/viser` (piste.js). 5 circuits pour l'instant (Garage = trésor du tour de chauffe en déc. 2026, Château, goûter, tranchée, Multivers) ; **V47** : `indice2` révélé le 11 du mois si personne n'a trouvé avant, `chercheurs` (qui + jour, ordre) affichés dans l'encadré de l'énigme (`chercheursTxt`) ; v16.67 : bouton `.gp-tresor-appel` en carte 2D → Visite 3D. **Conseil du 19/11 (trésors)** : famille « Chercheur » (vitrine d'objets bronze/argent/or + badge volé « Le Flair » à points 3/2/1, à partir du 2e trésor 2027, Garage hors badges) à faire DANS la refonte des récompenses ; décor 3D de Dune lancé (date butoir 20/12, sinon pas de trésor en janvier) ; ensuite boucher juillet→novembre (Ratatouille, Odyssée). **Validation (Théo, 19/11 nuit, redit)** : si tout le Conseil est d'accord, Claude met en ligne SANS attendre Théo ; ne lui demander que s'il y a désaccord. **Efficience (Théo, 19/11 nuit)** : peu de chantiers à la fois, priorité au 1er décembre (Atelier du Père Noël 2D+3D, musique de la bande-annonce) ; écran « La Coupe » mis en pause (reprendre le workflow ecran-la-coupe avec resumeFromRunId wf_e6d7fbf7-b36 en décembre) ; pas de vidéo MP4 ni d'extras sonores pour l'instant. **3D (Théo, 19/11 nuit)** : les décors 3D actuels sont « une horreur, ni fait ni à faire », sauf le Château (Poudlard), « pas mal mais pas waouh » : ce n'est PAS le modèle, la cible est au-dessus (effet waouh) ; on fait UN circuit 3D après l'autre, en commençant par l'Atelier du Père Noël ; Dune et Ratatouille en pause, le reste après validation de Noël par Théo (lui montrer chaque 3D avant mise en ligne). Goûter, Étoiles, Multivers 3D à revoir aussi. **Décisions de Théo (19/11, soir)** : le circuit de chauffe s'appelle « L'Atelier du Père Noël » 🎅 (GPS.abudhabi, v16.72) ; fil rouge des trésors « La Coupe brisée » adopté par le Conseil (12 éclats, Coupe commune + vitrine perso, éclat « rendu par la piste » si pas trouvé, Finale = coffre dans le Multivers, badge « Gardien de la Coupe », aucun point) : contenu SECRET dans app_scripts/versus/Eclats.js (Théo joue : ne jamais le montrer), serveur branché (V49 : `coupe` dans l'action tresors = prologue + 12 éclats avenir/trouve/terne, `eclat` dans tresorTrouve ; éclat visible par tous dès la 1re trouvaille, décision de Théo), écran « La Coupe » de l'appli à faire avant janvier ; Garage 3D refait JOYEUX (Noël grandiose, Théo trouvait l'ancien « morbide ») : 2 concepts du Conseil, Théo choisit ; pas de gel au 25/11 (Théo : on peut modifier jusqu'au 1er décembre, les joueurs n'ont pas accès avant ; seul le teaser part le samedi 21/11) ; ordre des décors 3D = avis du game designer : Dune → Ratatouille → Odyssée → Envers → Titans → Pandora → Anneau → Chocolaterie ; **à terme un trésor sur TOUS les circuits** ; le Conseil doit surtout **varier les thèmes et les genres** d'un mois à l'autre (pas seulement boucher les trous du calendrier). **Conseil 19/11 (unanime)** : trésors = rappel dans l'appli seulement, PAS de mail aux joueurs (règle V26 maintenue) ; Le Flair à égalité de points reste au détenteur (vol si strictement supérieur ; afficher « à égalité : encore une 1re place pour le prendre »). ATTENTION : si decorGarage est remplacé (decorGarage2), revérifier la cachette du Garage dans Tresors.js : ajouter une ligne à `VS_TRESORS` quand un nouveau décor 3D sur mesure est prêt (cachette vérifiée par captures).
 - **Bande-annonce d'avant-course (v16.73)** : épurée « affiche de cinéma » (Théo : circuit + règle du mois + trésor/énigme, rien d'autre ; `bandeAnnonce` dans 4-grandprix.js, `bref` dans PIEGES/mois spéciaux) ; `window.SONS` exporté (avant : sons muets).
 - Bande-annonce de lancement : `teaser.html` (bouton dans le mail du 20/11, serveur V35) ; vidéo MP4 faite avec Playwright + bande-son synthétisée (numpy + ffmpeg).
 - Maquettes de travail : scratchpad `galerie/` (perdu avec la session ; les peintres sont dans `piste.js`, rendu via `tpeints.js`, `PEINT=clé`, `ANIM=1 ATT=2600`).

diff --git a/MODE_EMPLOI.md b/MODE_EMPLOI.md
@@ -398,3 +398,4 @@ Légende : ⬜ à faire · 🟡 proposé, attend ton OK · 🔧 en cours · ✅ 
 | 19/11/2026 | jeu | **v16.76 · Atelier du Père Noël : finalement la carte A** (Théo avait inversé A et B) : la version la plus lumineuse, le Père Noël en personne (écharpe aux 5 couleurs) dévoile la voiture-cadeau, lutins mécaniciens, lutin perché sur « 2027 ? », sapin et neige en pleine lumière, cadeaux dans les coins, chaussette verte de Nicolas. |
 | 19/11/2026 | jeu | **v16.77 · Lignes de bourse : privées pour tous** (Théo, serveur V50) : l'option « Partager mes lignes de bourse dans le récap du mois » est retirée des Réglages ; l'appli n'envoie plus rien, le serveur n'enregistre ni ne renvoie plus de lignes, et le récap du mois ne les affiche plus. Les anciennes lignes restent dans l'onglet caché « Lignes app » du Sheet Versus (à effacer seulement sur demande de Théo). |
 | 19/11/2026 | jeu | **v16.78 · Garde-fou sur les relevés d'assurance-vie** (chute de la courbe Artema vue par Théo) : un relevé saisi bien plus petit que la ligne (ex. le prix d'UNE part, 99,96 €, au lieu de la valeur totale) affiche maintenant « Ce montant ressemble au prix d'une seule part… prends la valeur totale (≈ X €) ». |
+| 19/11/2026 | jeu | **v16.79 · Atelier du Père Noël retouché** (validé par Théo) : sapin visible en entier dans le creux de la piste, projecteurs braqués sur la voiture-cadeau (sol doré, lueur sous la bâche), portraits des joueurs dans les couronnes. |
